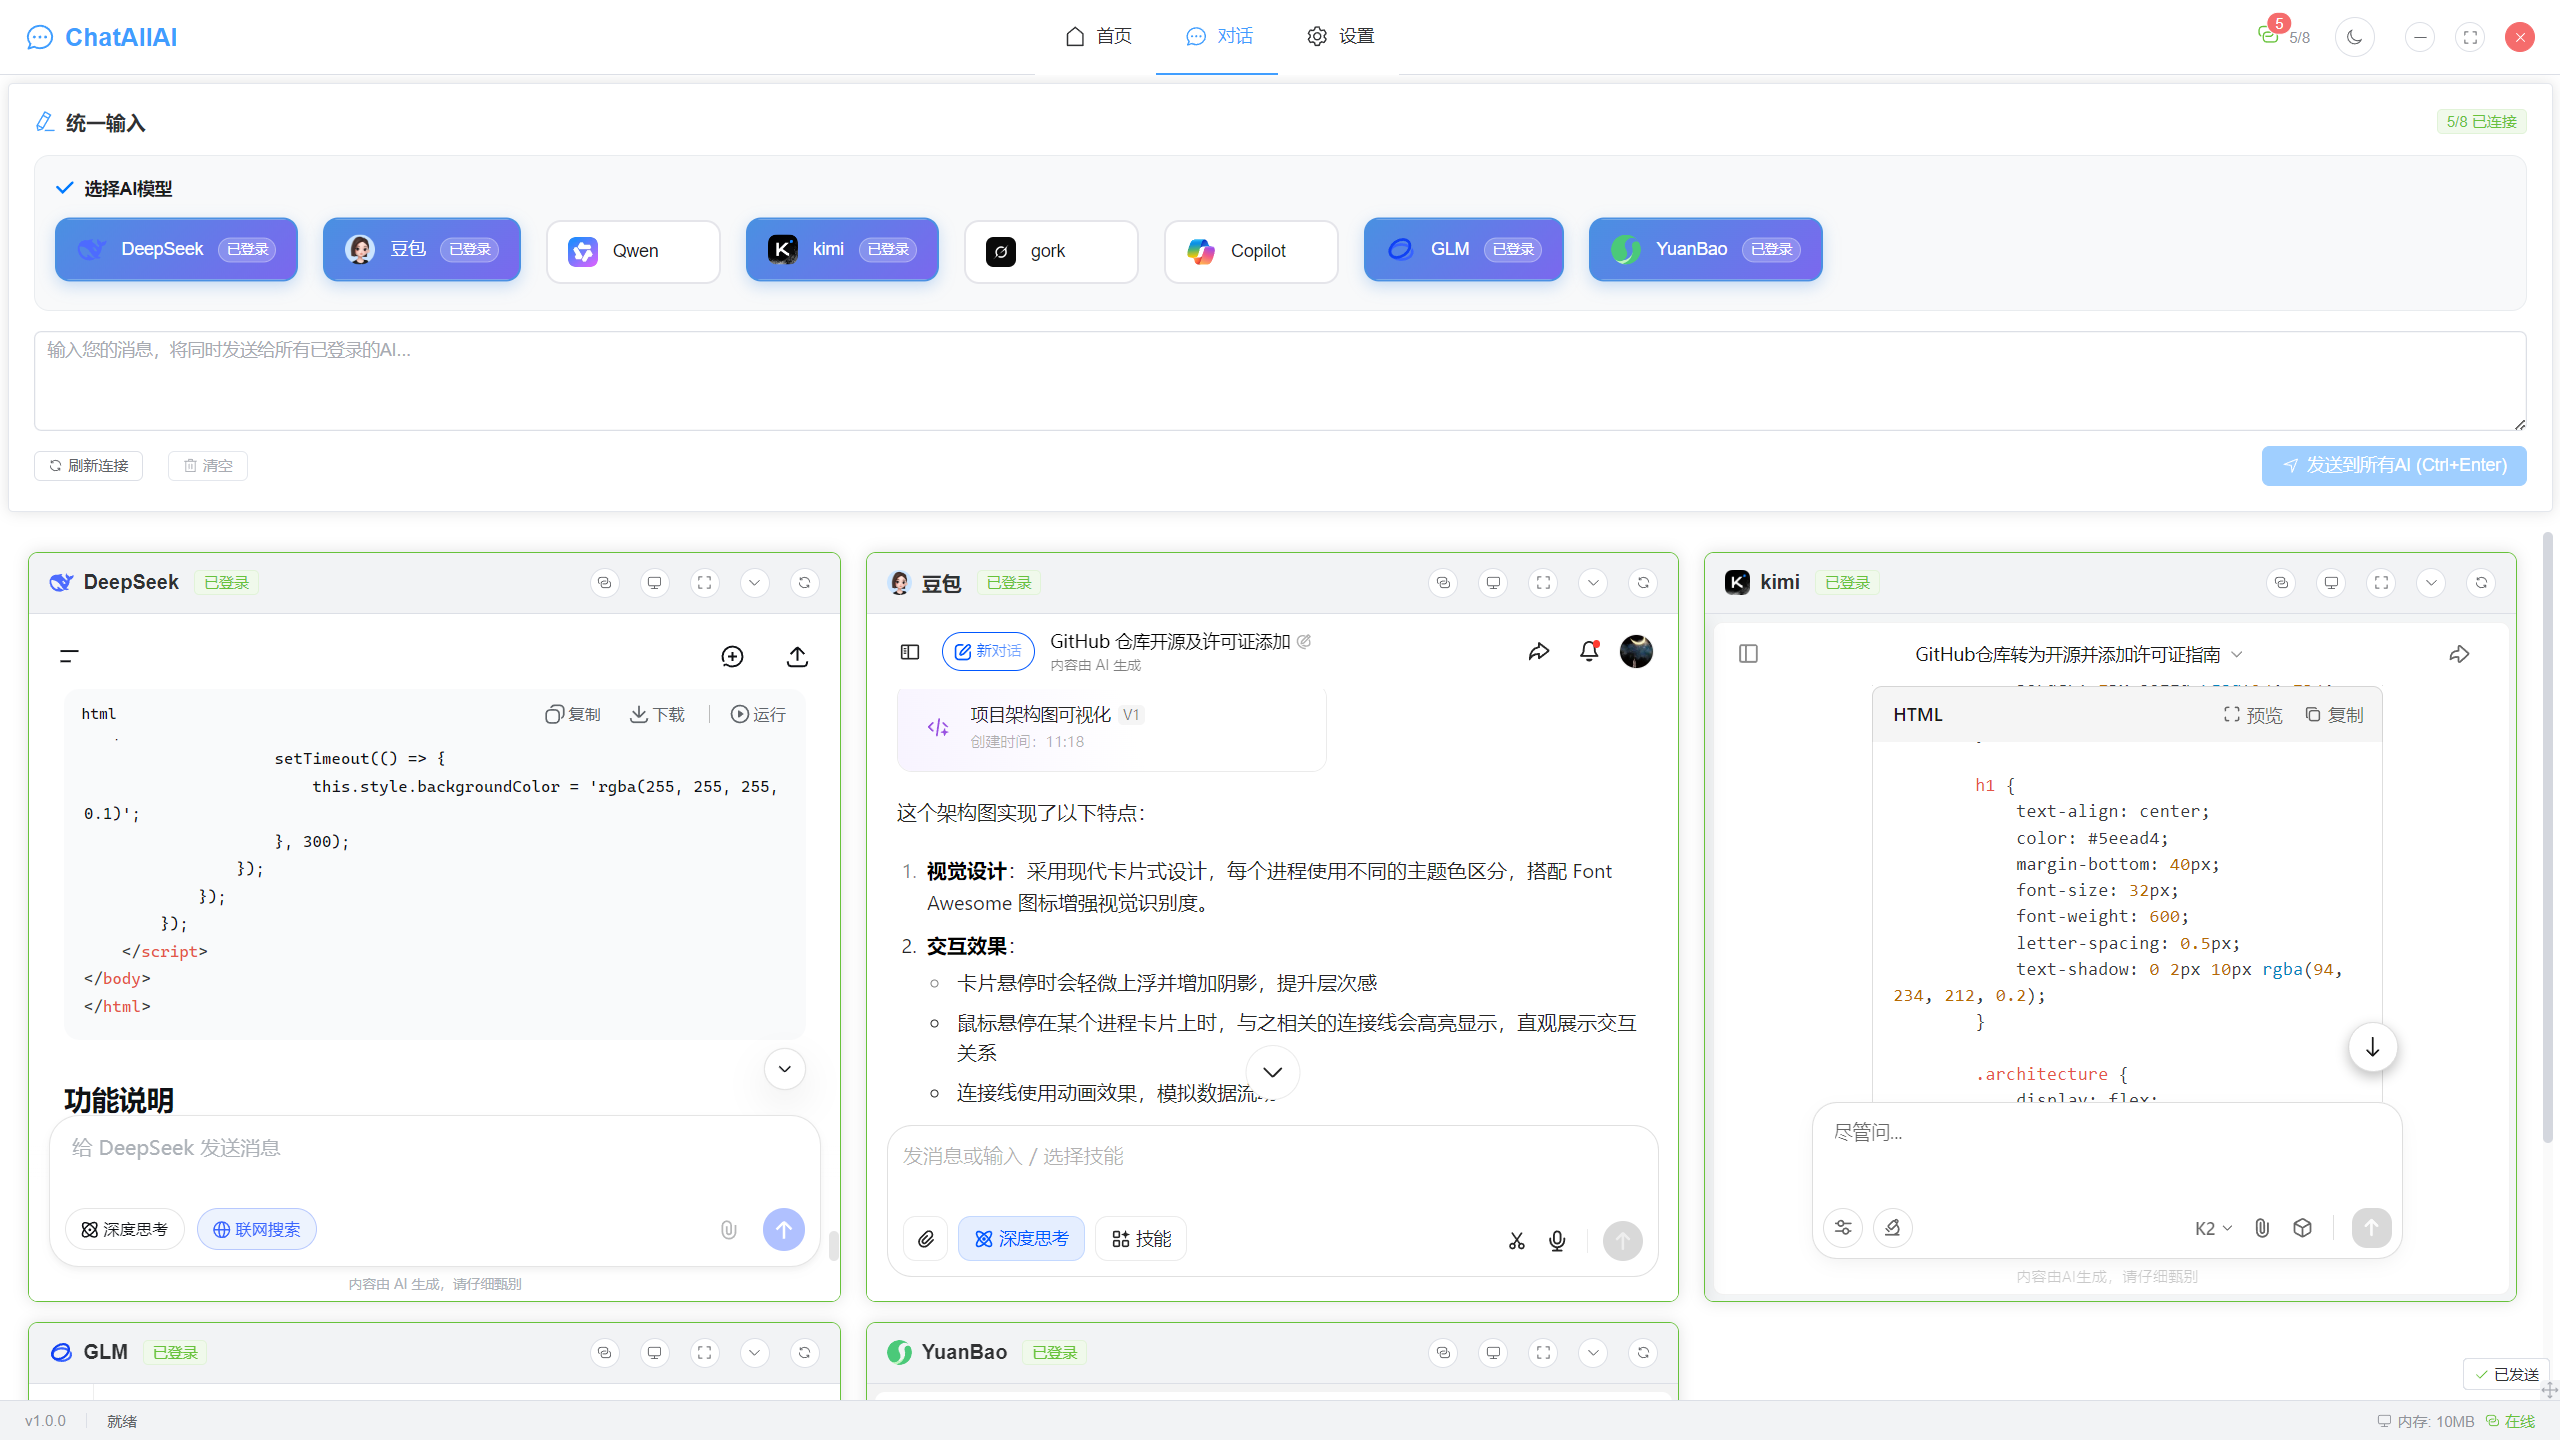
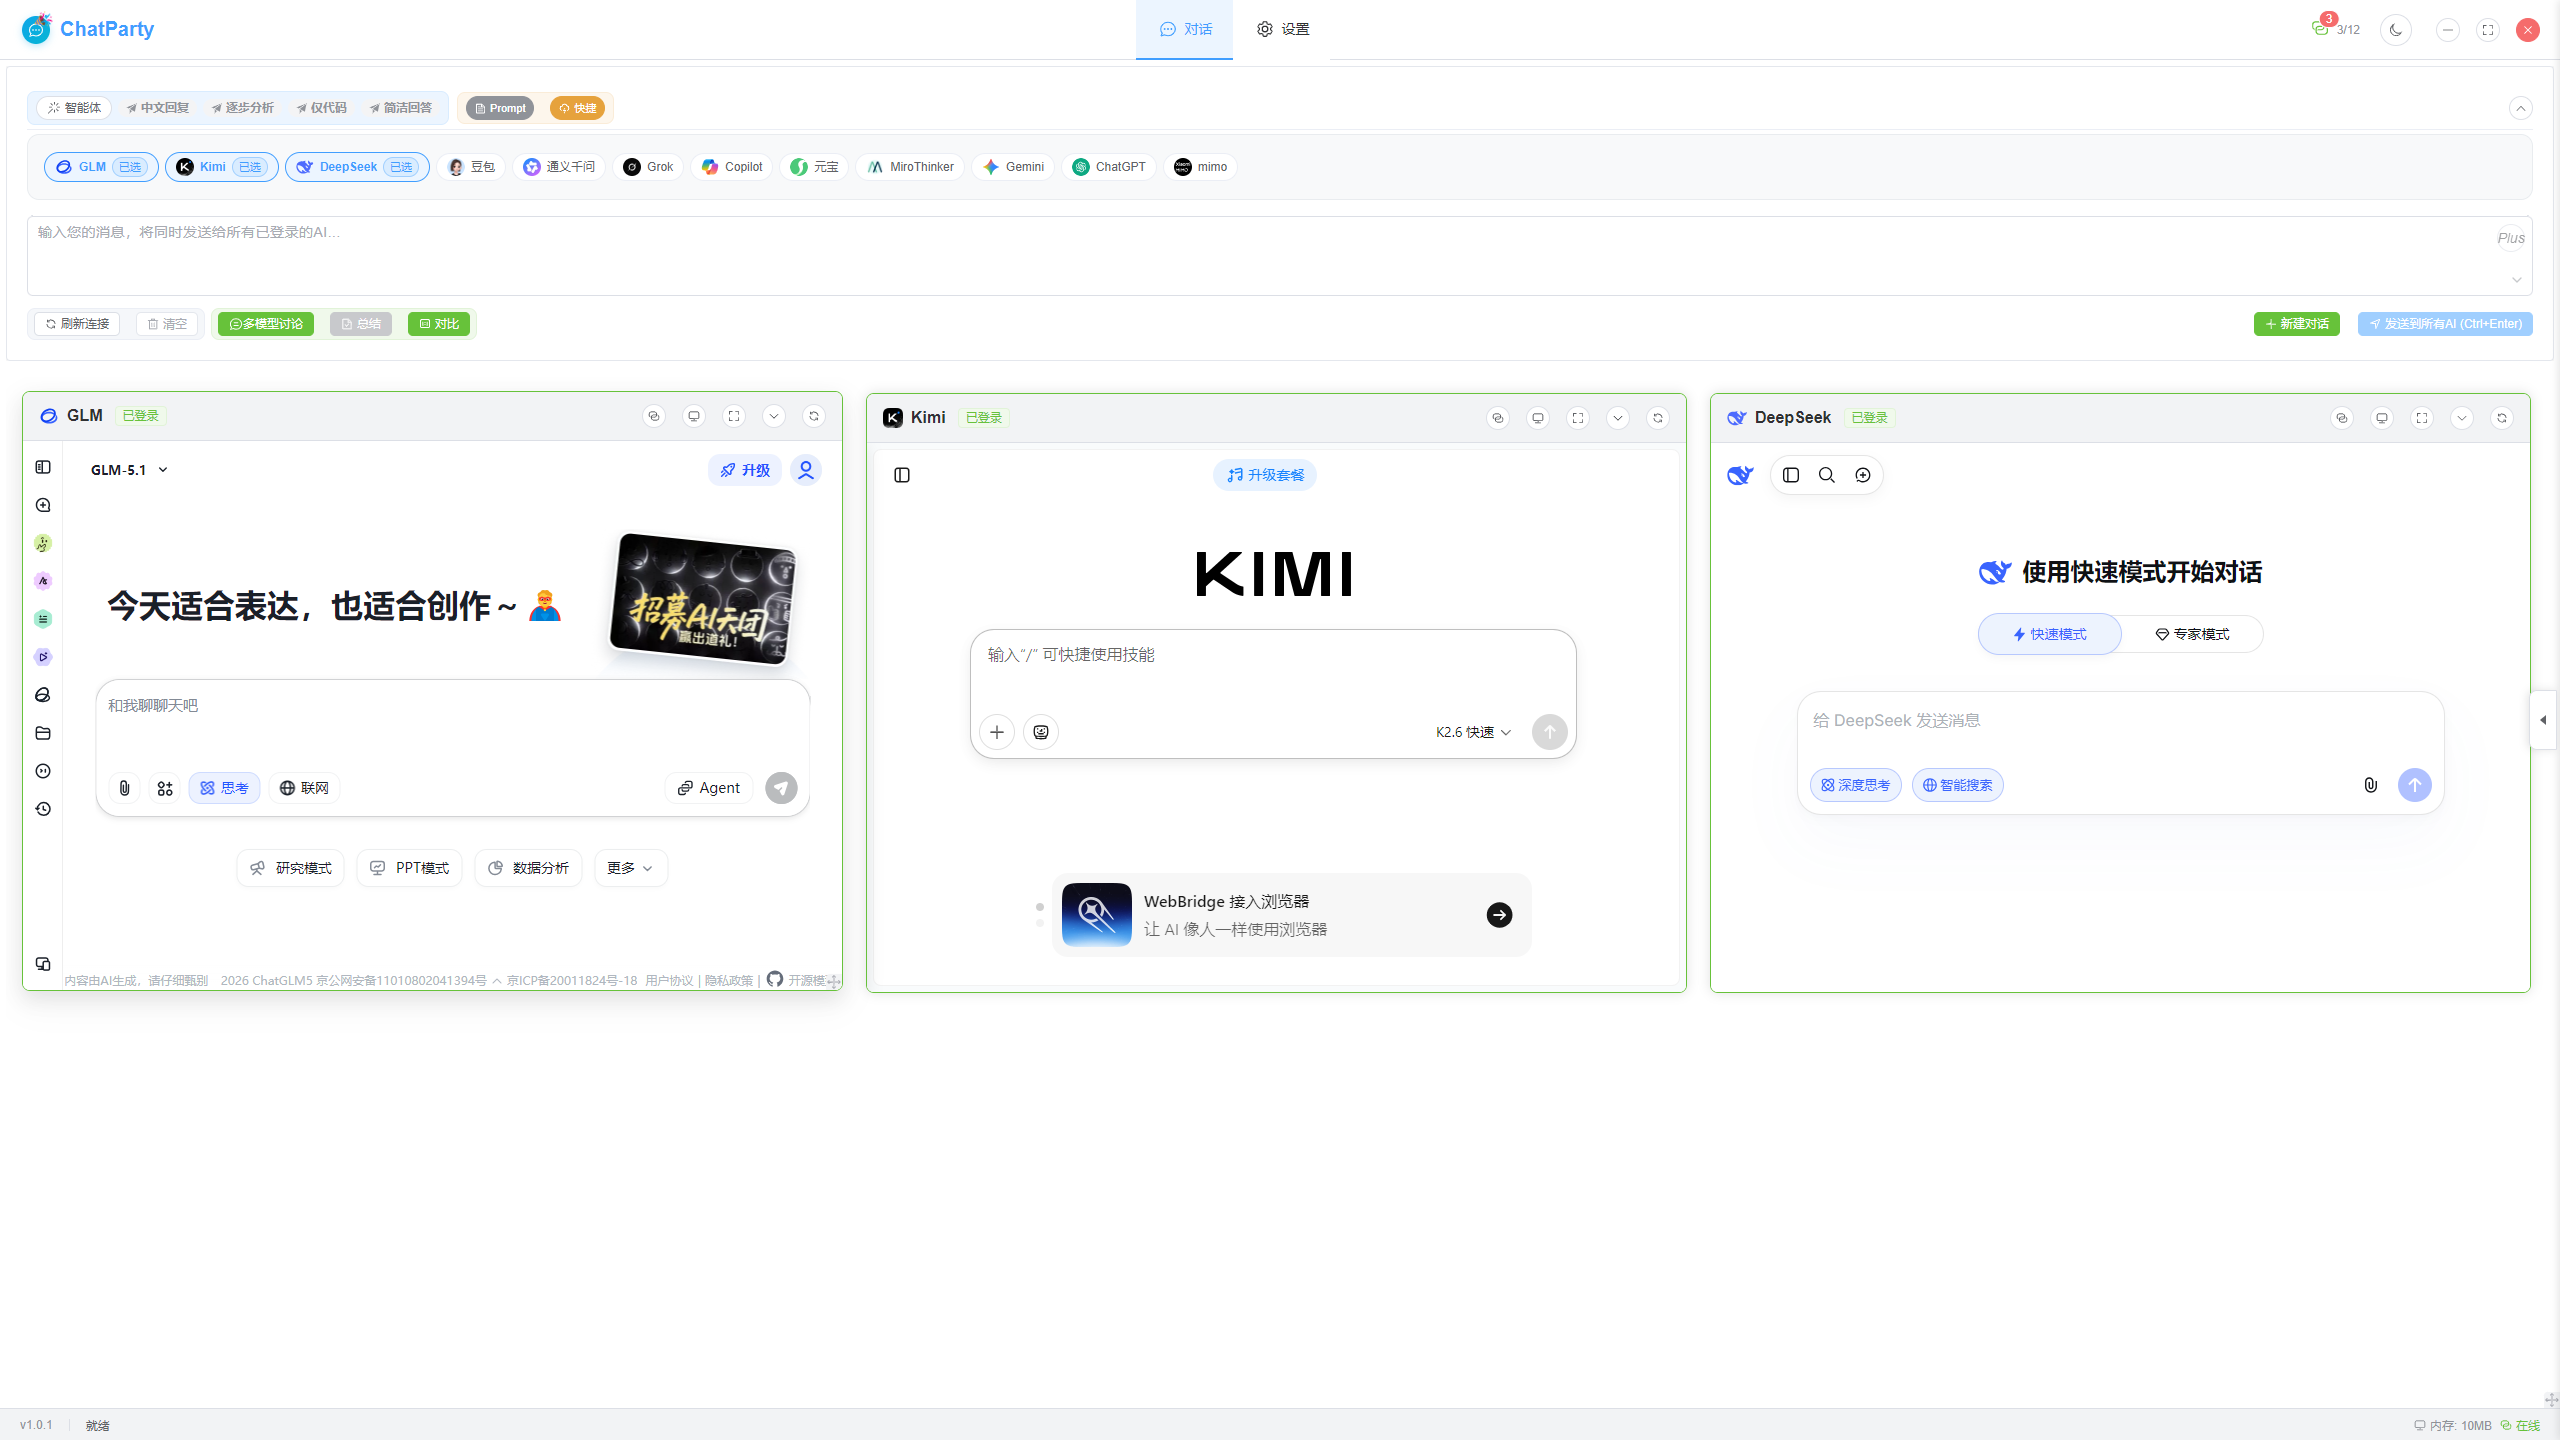
feature()：初始化

diff --git a/README.md b/README.md
@@ -4,6 +4,10 @@
 
 一个基于 Electron + Vue3 + TypeScript 构建的桌面应用程序，让用户可以在单一界面同时与多个 AI 模型对话，实现高效的多模型对比和协作。支持 DeepSeek、豆包、通义千问、Kimi、Grok、Copilot、GLM、元宝、ChatGPT、Gemini、Mimo 等主流 AI 模型。
 
+### 主界面预览
+
+![主界面](./images/主界面.png)
+
 ## 核心功能
 
 ### 1. 多AI模型并行对话
@@ -48,6 +52,9 @@
 - **主题切换**：支持浅色、深色和跟随系统主题
 - **自定义脚本**：为每个 AI 提供商自定义 JavaScript 脚本（消息提取、登录检查、发送消息等）
 - **代理配置**：为每个 AI 模型单独配置网络代理
+
+![代理配置](./images/代理.png)
+![代理配置](./images/多模型讨论.png)
 - **Prompt 管理**：支持自定义 Prompt 的创建、编辑、分类和快捷应用
 
 ## 支持的AI模型
@@ -73,7 +80,7 @@
 
 ```bash
 # 克隆项目
-git clone https://github.com/hqzqaq/chatAllAI2.git
+git clone https://github.com/chenjinyong66/ChatParty.git
 
 # 安装依赖
 npm install
@@ -140,6 +147,8 @@ sudo xattr -d com.apple.quarantine /Applications/ChatAllAI.app
 | 构建工具 | Vite + Electron Builder |
 
 ### 核心模块
+
+![整体架构](./images/整体架构.png)
 
 ```
 src/